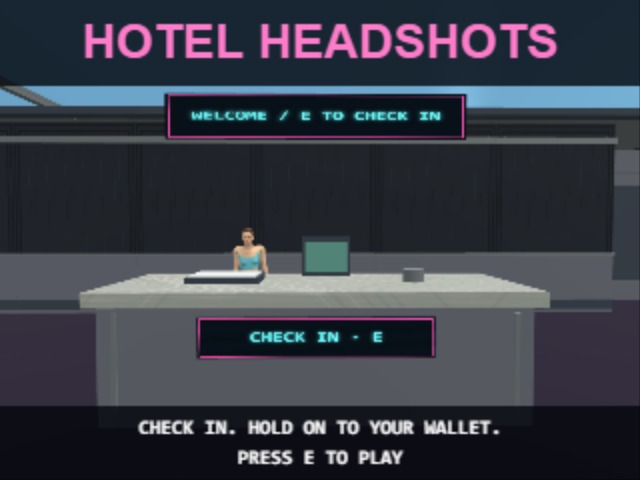
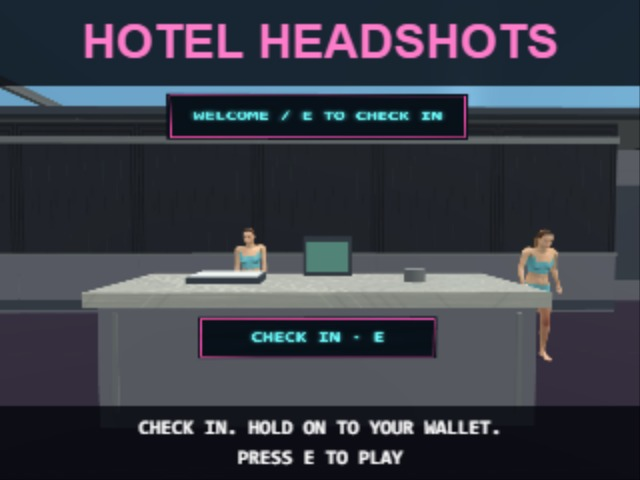
Populate Hotel Headshots attract mode with animated guests

diff --git a/hotel-headshots/game.js b/hotel-headshots/game.js
@@ -112,7 +112,20 @@
   if(result.fired)sound(90,.12,'sawtooth',.18,35);
   if(result.hit){run.caught=true;run.ended=true;$('hurt').style.opacity='.7';sound(65,.4,'triangle',.15,30);end();}
  }
- function attract(time,dt=0){const phase=Math.floor(time/7)%4,shots=[[28.8,6,0,'CHECK IN. HOLD ON TO YOUR WALLET.'],[34,64.8,-1.57,'POOL ACCESS · SURPRISE FEES INCLUDED'],[49,9,.8,'COMPLIMENTARY BREAKFAST. COSTLY COMPANY.'],[36,36,0,'AIM HIGH · KEEP MOVING · FIND THE STAIRS']];const [x,z,a,caption]=shots[phase];art.camera.position.set(x,1.68,z);art.camera.rotation.set(phase===3?-.025:.03,a+Math.sin(time*.2)*.1,0);frame.classList.toggle('attract-tour',phase!==0);$('attract-caption').textContent=caption;gun.setEnabled(phase===3);gun.position.y=-.12;if(phase===3){const n=npcs[0];if(n){n.view.node.position.set(36,0,41);n.view.node.rotation.y=0;n.retreat=false;n.resistance=10000;n.view.activity={kind:'stand'};}const shot=Math.floor(time/1.2);if(shot!==attractShot&&dt>0){attractShot=shot;run.ammo=48;releaseShot();}}for(const n of npcs){n.shield=Math.max(0,n.shield-dt);n.view.animate(dt,0,n.shield>0);}projectiles(dt);}
+ function attract(time,dt=0){
+  const phase=Math.floor(time/7)%4,local=time%7,shots=[[28.8,6,0,'CHECK IN. HOLD ON TO YOUR WALLET.'],[34,64.8,-1.57,'POOL ACCESS · SURPRISE FEES INCLUDED'],[49,6,.95,'COMPLIMENTARY BREAKFAST. COSTLY COMPANY.'],[36,36,0,'AIM HIGH · KEEP MOVING · FIND THE STAIRS']];
+  const [x,z,a,caption]=shots[phase];art.camera.position.set(x,1.68,z);art.camera.rotation.set(phase===3?-.025:phase===1?.16:.03,a+(phase===3?0:Math.sin(time*.2)*.06),0);frame.classList.toggle('attract-tour',phase!==0);$('attract-caption').textContent=caption;gun.setEnabled(phase===3);gun.position.y=-.12;
+  // Reuse the real guest models in isolated, staged demo vignettes. Starting a run rebuilds all residents.
+  for(const n of npcs)n.view.node.setEnabled(false);
+  const actor=(i,x,z,kind,rotation=0,speed=0,guard=false)=>{const n=npcs[i];if(!n)return;n.view.node.setEnabled(true);n.view.node.position.set(x,0,z);n.view.node.rotation.y=rotation;n.retreat=false;n.resistance=10000;n.activity=kind;n.shield=guard?1:0;n.view.guardStyle=(i+Math.floor(local/2))%3;n.view.activity={kind};n.view.time=time+i*.7;n.view.walkTime=time*Math.max(.35,speed/1.45);n.view.animate(dt,speed,guard);};
+  if(receptionist){receptionist.node.setEnabled(phase===0);receptionist.animate(dt,0,false);}
+  if(phase===0){actor(0,25.8+local*.35,8.2,'stand',Math.PI/2,.8);actor(1,31.7,10.8-local*.15,'stand',0,.55);}
+  if(phase===1){actor(0,26.5+Math.sin(local*.65),64.2,'swim',Math.cos(local*.65)>0?Math.PI/2:-Math.PI/2);actor(1,23.8+Math.sin(local*.65+2),65.6,'swim',Math.cos(local*.65+2)>0?Math.PI/2:-Math.PI/2);actor(2,31.2,66.6-local*.2,'stand',0,.65);}
+  if(phase===2){actor(0,52.8,9.6,'eating');actor(1,57.6,9.6,'eating');actor(2,61,6.5+local*.25,'stand',Math.PI,.65);}
+  if(phase===3){for(let i=0;i<3;i++)actor(i,36+(i===1?-.9:i===2?.9:0),42+i*1.2-local*.3,'stand',0,1.2,(local+i*.45)%1.8>.6);const shot=Math.floor(time/1.2);if(shot!==attractShot&&dt>0){attractShot=shot;run.ammo=48;releaseShot();}}
+  projectiles(dt);
+ }
+
  function update(dt){if(!art.readyState)return;ambientTime+=dt;art.update(dt);if(mode!=='playing'){if(mode==='title'){attract(ambientTime,dt);}return;}
   run.time+=dt;shotTimer=Math.max(0,shotTimer-dt);recoil=Math.max(0,recoil-dt*6);music(dt);
   const forward=Number(keys.has('KeyW'))-Number(keys.has('KeyS')),side=Number(keys.has('KeyD'))-Number(keys.has('KeyA')),length=Math.hypot(forward,side)||1,speed=(keys.has('ShiftLeft')||keys.has('ShiftRight')?5.8:3.6)*dt;

diff --git a/void-runner-sw.js b/void-runner-sw.js
@@ -1,7 +1,7 @@
 /* VOID//RUNNER only. Increment BUILD when deploying changed game files (the Pages build also stamps it with the commit,
    tools/assets/build-pages.cjs, so a deploy always starts a fresh cache). Restored 2026-10-31: a merge on 2026-10-26
    (f6f582e) had reduced this file to its BUILD line, which left the game without its offline cache. */
-const BUILD='2026-11-24-hotel-headshots-19';
+const BUILD='2026-11-24-hotel-headshots-20';
 const CORE='void-runner-core-'+BUILD;
 const ASSETS='void-runner-assets-'+BUILD;
 const PAGE=new URL('./void-runner.html',self.location).pathname;

diff --git a/docs/development/AI_HANDOFF.md b/docs/development/AI_HANDOFF.md
@@ -6,7 +6,7 @@
 
 ## CURRENT DEVELOPMENT STATE — RESUME HERE
 
-> **Codex draft, 18 Nov 2026 — HOTEL HEADSHOTS:** New standalone five-floor foam-blaster arcade game on `codex/hotel-headshots`, with a games-list card and the first unused District cabinet (formerly LASER MOTH). Owner corrections: neon/cyberpunk, not fancy; centered tan-only blaster without gray/white attachments; rounded lower pump grip partly behind the HUD, a short up/down grip wind-up before foam release (owner clarified the delay is intentional), and vertical mouse aiming to 89 degrees up/down, and foam gravity arcs with slight pressure/range variation and swept collisions. Latest presentation: opaque downward liquid drips on surfaces and moving NPC hit regions; four-scene attract tour and 16-frame District cabinet loop; black Milked sponsor-logo fade before each new run. The cabinet now repeats the hotel’s flower-and-bee paintings with walnut frames, aged brass and a hotel plaque. 24 Nov NPC pass: textured adult MakeHuman characters, fitted original swimwear, skeletal locomotion/guard blending and bone-following hit regions replace the primitive figures. 24 Nov reference-plan redesign: enclosed bedrooms/bathrooms, front lobby, rear pool and separate stairwell; sleeping/waking/bathroom/swimming residents; three blocking poses including palms-out. Ground-floor side dining area added with seated eating guests and stand-to-pursue reactions. All 32 rooms now have paired nightstands, writing desks/chairs, wall TVs and verified private bathroom access. All rooms have glazed windows with perspective-correct shared 3D trees, meadow, sky and cloud views (512px, 20Hz cap, six merged exterior meshes). Four owner-requested recorded foam-hit reactions are integrated with positional audio, overlap limits and pause/mute support. Original flower and bee paintings in walnut frames now decorate all five floors and every guest room (104 placements). Daytime pass: blue sky/clouds, warm sunlight and glazed roofs over the opening lobby and pool; daylight nature views outside windows. Layout audit: mirrored guestrooms with entry-side bathrooms and clear foot-of-bed exits, aligned rear stair landings, separate dry pool/stair access, and a wall-side breakfast buffet, coffee machine and mini fridge in dining. Current ending: lobby entrance/main exit, rear pool exit, and emergency exits at both ground-floor stair bases; reaching the penthouse triggers police entry through all four, pursuit across floors, gunfire and a non-graphic no-escape ending. Remaining money is scored. Plans and behavior screenshots are in the linked implementation notes. Environment remains procedural; not a photorealistic/AAA certification. Not merged or live. Implementation, verification and limitations: [`HOTEL_HEADSHOTS.md`](HOTEL_HEADSHOTS.md).
+> **Codex draft, 18 Nov 2026 — HOTEL HEADSHOTS:** New standalone five-floor foam-blaster arcade game on `codex/hotel-headshots`, with a games-list card and the first unused District cabinet (formerly LASER MOTH). Owner corrections: neon/cyberpunk, not fancy; centered tan-only blaster without gray/white attachments; rounded lower pump grip partly behind the HUD, a short up/down grip wind-up before foam release (owner clarified the delay is intentional), and vertical mouse aiming to 89 degrees up/down, and foam gravity arcs with slight pressure/range variation and swept collisions. Latest presentation: opaque downward liquid drips on surfaces and moving NPC hit regions; four-scene attract tour with animated lobby guests, swimmers, diners and approaching/blocking pursuers, and a 16-frame District cabinet loop; black Milked sponsor-logo fade before each new run. The cabinet now repeats the hotel’s flower-and-bee paintings with walnut frames, aged brass and a hotel plaque. 24 Nov NPC pass: textured adult MakeHuman characters, fitted original swimwear, skeletal locomotion/guard blending and bone-following hit regions replace the primitive figures. 24 Nov reference-plan redesign: enclosed bedrooms/bathrooms, front lobby, rear pool and separate stairwell; sleeping/waking/bathroom/swimming residents; three blocking poses including palms-out. Ground-floor side dining area added with seated eating guests and stand-to-pursue reactions. All 32 rooms now have paired nightstands, writing desks/chairs, wall TVs and verified private bathroom access. All rooms have glazed windows with perspective-correct shared 3D trees, meadow, sky and cloud views (512px, 20Hz cap, six merged exterior meshes). Four owner-requested recorded foam-hit reactions are integrated with positional audio, overlap limits and pause/mute support. Original flower and bee paintings in walnut frames now decorate all five floors and every guest room (104 placements). Daytime pass: blue sky/clouds, warm sunlight and glazed roofs over the opening lobby and pool; daylight nature views outside windows. Layout audit: mirrored guestrooms with entry-side bathrooms and clear foot-of-bed exits, aligned rear stair landings, separate dry pool/stair access, and a wall-side breakfast buffet, coffee machine and mini fridge in dining. Current ending: lobby entrance/main exit, rear pool exit, and emergency exits at both ground-floor stair bases; reaching the penthouse triggers police entry through all four, pursuit across floors, gunfire and a non-graphic no-escape ending. Remaining money is scored. Plans and behavior screenshots are in the linked implementation notes. Environment remains procedural; not a photorealistic/AAA certification. Not merged or live. Implementation, verification and limitations: [`HOTEL_HEADSHOTS.md`](HOTEL_HEADSHOTS.md).
 
 
 ### 17 Nov 2026 (newest): MISSION 003 — CORPORATE CONNECTIONS (branch `claude/mission-003`, build `2026-11-17-mission-003-1`, pushed, NO PR, not merged)

diff --git a/docs/development/HOTEL_HEADSHOTS.md b/docs/development/HOTEL_HEADSHOTS.md
@@ -167,3 +167,10 @@ Presentation and District-host checks passed: sponsor logo/fades, fresh-run bala
 The owner requested a cabinet theme drawn from the game. Reused the original flower-and-bee painting atlas already displayed throughout the hotel: a framed front panel and two side panels, walnut-grain control deck and trim, aged brass around the screen, muted rose/gold marquee accents, and a THE GRAND LIABILITY / FIVE FLOORS · NO REFUNDS plaque. The coin slot sits below the artwork. Existing screen, attract loop, controls, footprint and launch action remain functional. This adds one reused atlas texture and small decorative meshes; other cabinets are unchanged. Build 2026-11-24-hotel-headshots-19. Node suite: 1,181 passed, one skipped.
 
 Cabinet integration validation: character creation, Sleeping Pod exit, Hotel Headshots launch, sponsor/start sequence, and return to the District passed without page errors. Full-cabinet preview is captured by `node tests/hotel-headshots-district-browser.cjs --cabinet-only`.
+
+
+## 24 Nov 2026 — populated attract scenes
+
+The attract loop now stages animated guests in every vignette: receptionist and passing lobby guests; two swimmers and a poolside walker; two diners and a passing dining guest; three approaching pursuers cycling the three real guard poses. It reuses existing guest models and animation code. Demo actors are isolated from gameplay and rebuilt with normal residents on CHECK IN. The dining camera is framed to include the seated guests. The cabinet's 16-frame capture is regenerated from these scenes; capture checks verify guest counts, swimming/eating activity, and movement toward the camera. Build 2026-11-24-hotel-headshots-20.
+
+Validation: final 16-frame strip visually inspected; all four scenes show guests. Browser checks passed for guest counts, swimming/eating poses, approaching pursuers, sponsor transition, and restoration of normal enabled residents/resistance on start. Node suite: 1,181 passed, one skipped; cabinet artwork remains within the existing size budget.
